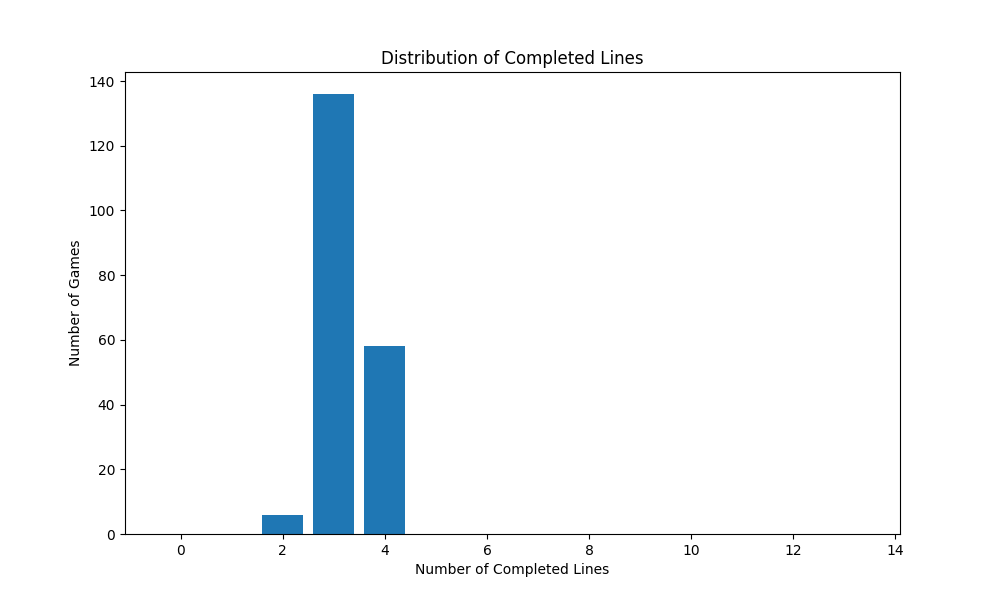
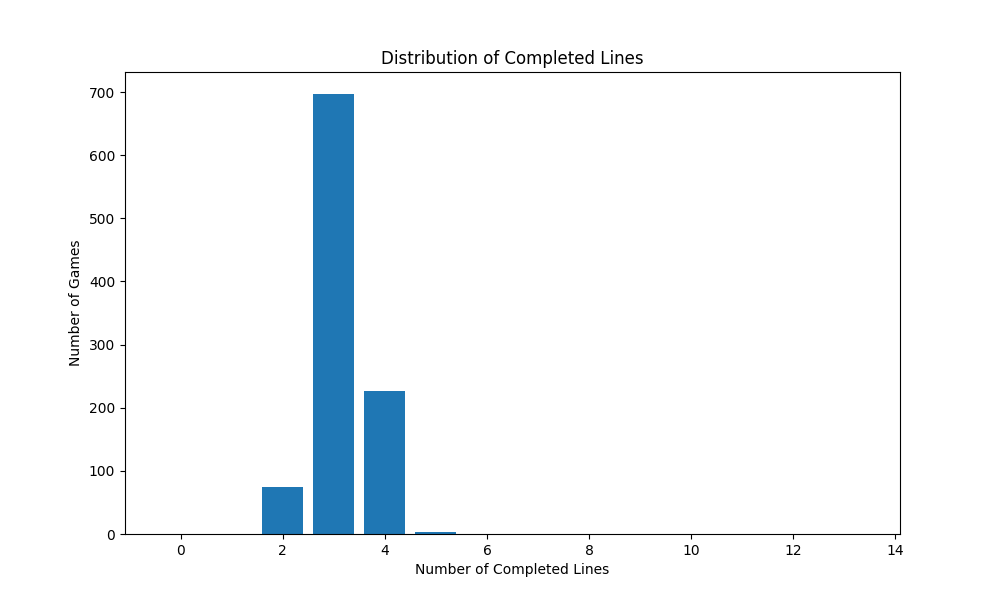
Edit README

diff --git a/evaluation/run_simulation.py b/evaluation/run_simulation.py
@@ -66,7 +66,7 @@ def main():
     output_dir.mkdir(exist_ok=True)
     
     # Initialize and run simulation
-    simulator = BingoSimulator(num_games=200)  # Run 50 games
+    simulator = BingoSimulator(num_games=1000)  # Run 50 games
     simulator.run_simulation(num_workers=4)
     
     # Collect results

diff --git a/evaluation/simulator.py b/evaluation/simulator.py
@@ -53,7 +53,7 @@ def run_game(_: int = 0) -> GameResult:
     )
 
 class BingoSimulator:
-    def __init__(self, num_games: int = 50):
+    def __init__(self, num_games: int = 10000):
         self.num_games = num_games
         self.results: List[GameResult] = []
         

diff --git a/README.md b/README.md
@@ -1,59 +1,134 @@
 # Bingo Game
 
-A web-based Bingo game with AI-powered opponent that uses strategic line completion and combination scoring.
+A modern, interactive Bingo game with AI-powered move suggestions and multiple game modes. The game features a sophisticated scoring system and supports both manual and automatic play.
 
 ## Features
 
-- 5x5 Bingo board
-- AI opponent that:
-  - Evaluates moves based on potential line completions
-  - Considers 4-line and 5-line combinations
-  - Scores moves based on:
-    - Completed lines (10 points each)
-    - Potential 4-line combinations (10 * 2^available_moves)
-    - Potential 5-line combinations (25 * 2^available_moves)
-- Maximum 16 moves to complete the game
-- Responsive web interface
+- **Interactive 5x5 Bingo Board**
+- **Multiple Game Modes**
+  - Manual Mode: Player makes all moves
+  - Auto Mode: Computer makes random moves after player's moves
+- **AI-Powered Move Suggestions**
+  - Shows best possible moves based on scoring system
+  - Displays detailed scoring information for each possible move
+- **Bilingual Support**
+  - English and Chinese (Traditional) interface
+  - Easy language switching
+- **Game Controls**
+  - Reset game
+  - Undo moves
+  - Score display toggle
+- **Responsive Design**
+  - Modern, clean interface
+  - Mobile-friendly layout
+- **Advanced Scoring System**
+  - Original scoring for first 12 moves
+  - New scoring system after 12 moves:
+    - 100 points for completing a line
+    - 25 points for 4-cell line
+    - 10 points for 3-cell line
 
-## How to Play
+## Project Structure
 
-1. Open the game in a web browser
-2. Click on cells to make your moves
-3. The AI will automatically make its moves
-4. Try to complete lines before the AI does
-5. The game ends when either player completes a line or reaches 16 moves
-
-## Technical Details
-
-The AI uses a sophisticated scoring system that:
-- Evaluates all possible moves
-- Considers both immediate line completions and potential combinations
-- Takes into account the remaining moves available
-- Prioritizes moves that can lead to multiple line completions
+```
+.
+├── index.html          # Main HTML file
+├── bingo.js           # Main game logic
+├── solver.js          # AI solver implementation
+├── styles.css         # Styling
+├── evaluation/        # Python evaluation tools
+│   ├── solver.py     # Python solver implementation
+│   ├── simulator.py  # Game simulation tools
+│   └── scoring_config.py  # Scoring configuration
+├── server.js         # Local development server
+└── package.json      # Project dependencies
+```
 
 ## Setup
 
-1. Clone the repository
-2. Open `index.html` in a web browser
-3. No additional setup required - it's a pure JavaScript implementation
+1. Clone the repository:
+```bash
+git clone https://github.com/yourusername/bingo-game.git
+cd bingo-game
+```
 
-## Description
+2. Install dependencies:
+```bash
+npm install
+```
 
-This is a simple Bingo game implemented using HTML, CSS, and TypeScript. The game generates a 5x5 grid of cells. When a cell is clicked, it is marked as selected, and a random unselected cell is also marked. The game ends when a maximum number of selections (16) is reached, and a message is displayed indicating the number of completed lines (rows, columns, or diagonals).
+3. Start the development server:
+```bash
+npm start
+```
 
-## How to Run Locally
+4. Open your browser and navigate to `http://localhost:3000`
 
-1.  Make sure you have a web browser installed (e.g., Chrome, Firefox, Safari).
-2.  Open the `index.html` file in your web browser.
+## Game Rules
 
-## Technologies Used
+1. The game is played on a 5x5 grid
+2. Players can select up to 16 cells
+3. A line is completed when all cells in a row, column, or diagonal are selected
+4. The game ends when 16 cells are selected
+5. The final score is based on the number of completed lines
 
-*   HTML
-*   CSS
-*   TypeScript
+## Scoring System
 
-## Files
+### First 12 Moves
+- Complex scoring system considering:
+  - Line completion bonuses
+  - Potential line combinations
+  - Power-based scoring
 
-*   `index.html`: The main HTML file that contains the structure of the game.
-*   `bingo.ts`: The TypeScript file that contains the game logic.
-*   `bingo.js`: The JavaScript file compiled from the TypeScript file.
+### After 12 Moves
+- Simplified scoring system:
+  - 100 points for completing a line
+  - 25 points for 4-cell line
+  - 10 points for 3-cell line
+
+## Development
+
+### Prerequisites
+- Node.js (v14 or higher)
+- Python 3.8+ (for evaluation tools)
+
+### Running Tests
+```bash
+npm test
+```
+
+### Building for Production
+```bash
+npm run build
+```
+
+## Evaluation Tools
+
+The `evaluation` directory contains Python tools for analyzing game performance:
+
+- `solver.py`: Implementation of the AI solver
+- `simulator.py`: Tools for running game simulations
+- `scoring_config.py`: Configuration for scoring parameters
+
+To run evaluations:
+```bash
+cd evaluation
+python run_simulation.py
+```
+
+## Contributing
+
+1. Fork the repository
+2. Create your feature branch (`git checkout -b feature/AmazingFeature`)
+3. Commit your changes (`git commit -m 'Add some AmazingFeature'`)
+4. Push to the branch (`git push origin feature/AmazingFeature`)
+5. Open a Pull Request
+
+## License
+
+This project is licensed under the MIT License - see the LICENSE file for details.
+
+## Acknowledgments
+
+- Built with vanilla JavaScript for optimal performance
+- Uses modern CSS for responsive design
